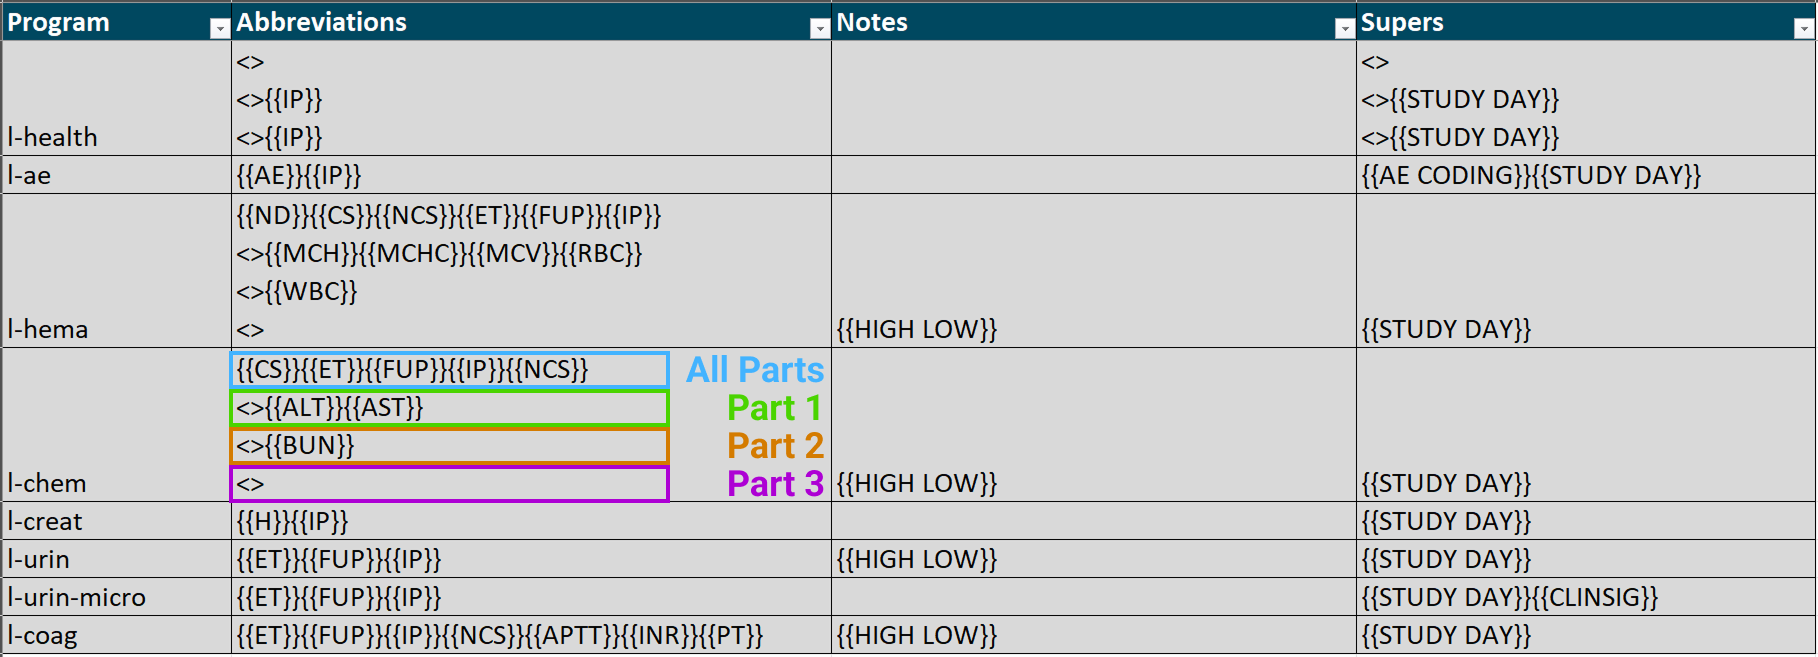
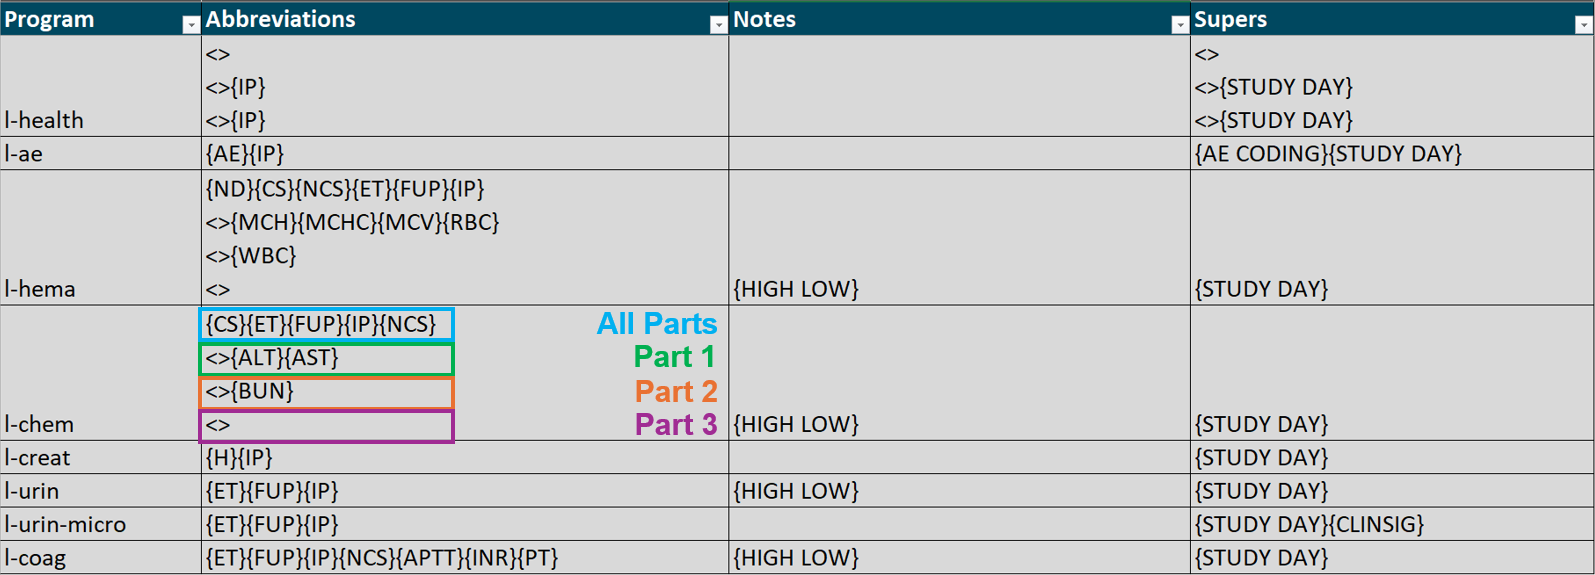
minor updates

diff --git a/docs/macros/macros-general/batchmode.md b/docs/macros/macros-general/batchmode.md
@@ -19,9 +19,10 @@ _Created by [**Jonathan Amato**](mailto:[email redacted]?subje
 
 ### Setup
 
-1. Ensure your project has the following folders and files from the global folder structure.
-2. Copy and update the init paths to your project in `batchMode.sas`. The template file can be found here `\EB - Public - Documents\Standards\Program Templates\Batch Mode\batchMode.sas`.
+1. Ensure your project has the following folders and current file versions from the global folder structure.
 - \Programs
+  - \Macros
+    - batch.sas
   - \Batch
     - \Batch Mode
         - batchMode.sas
@@ -32,7 +33,7 @@ _Created by [**Jonathan Amato**](mailto:[email redacted]?subje
   - \Output
     - \Logs
       - \Batch Mode
-
+2. Copy and update the init paths to your project in `batchMode.sas`. The template file can be found here `\EB - Public - Documents\Standards\Program Templates\Batch Mode\batchMode.sas`.
 3. init.sas needs the following code at the bottom from the most recent global version:
 ```sas
 %if %upcase("&sysparm") = "BATCHMODE" %then %do;